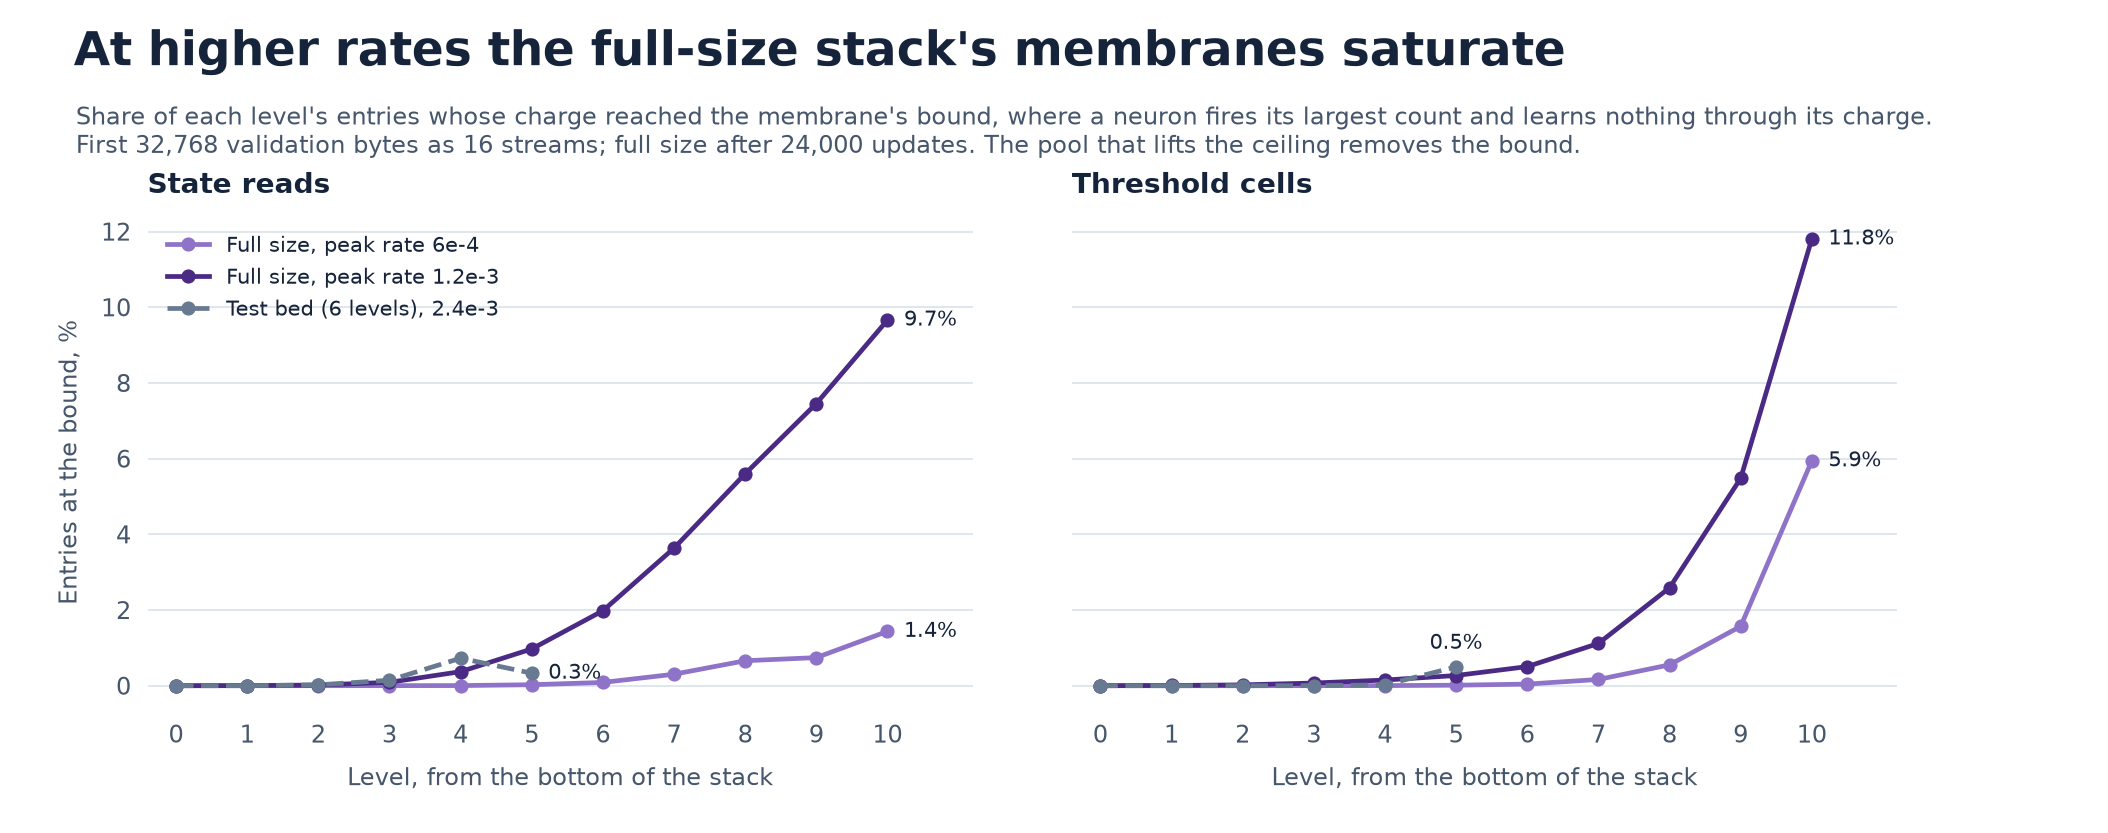
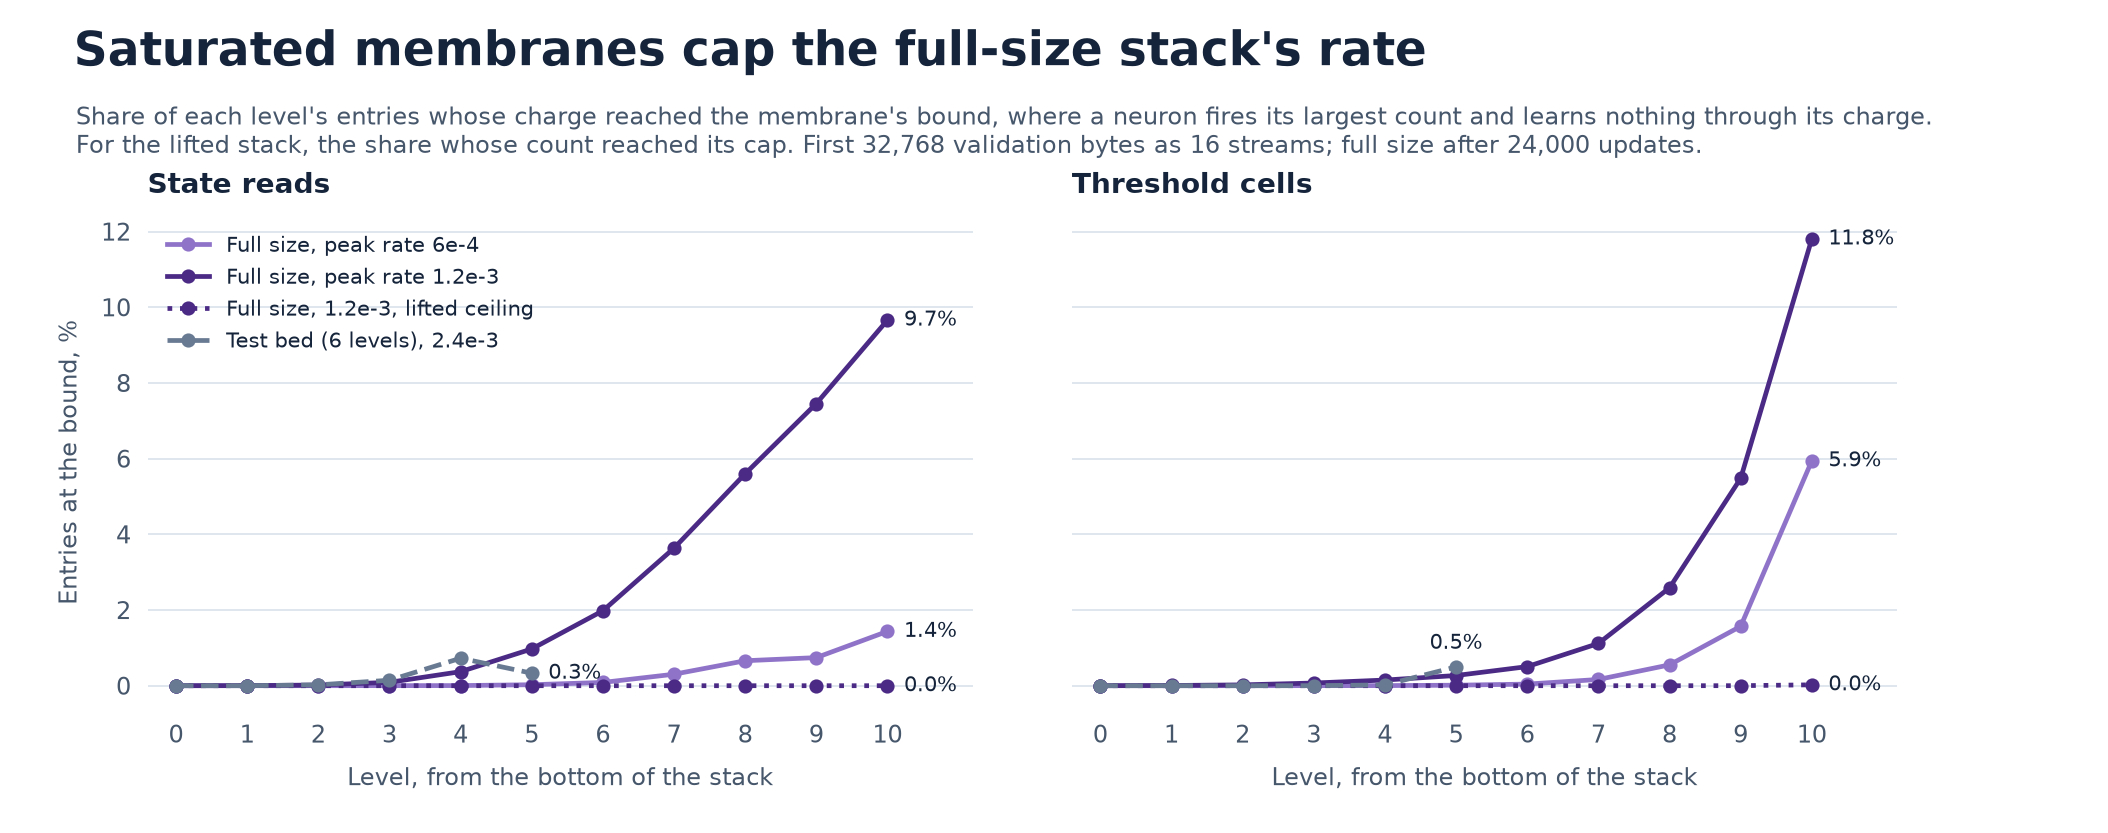
Record the lifted-ceiling pilot: lifting removes saturation and is worth 0.035 at 1.2e-3
The lifted stack scores 1.3134 at 6e-4 and 1.3126 at 1.2e-3 against the plain 1.3199 and 1.3475, at the same
energy, with no read and almost no cell at its cap. Its best is 0.0073 ahead of the plain stack's best, short of
the 0.010 the record asked, so the full-size pair trains the plain stack at 6e-4 as recorded. The gap at each
model's best rate is 0.036 with lifting, as at 3e-4: the rest is knowledge.

diff --git a/experiments/plot_saturation.py b/experiments/plot_saturation.py
@@ -19,6 +19,7 @@ LIGHT_VIOLET, DARK_VIOLET = "#8f73c9", "#4a2a85"
 RUNS = {
     "fs-st6": ("Full size, peak rate 6e-4", LIGHT_VIOLET, "-"),
     "fs-st12": ("Full size, peak rate 1.2e-3", DARK_VIOLET, "-"),
+    "fs-st12-lift": ("Full size, 1.2e-3, lifted ceiling", DARK_VIOLET, ":"),
     "bed24-lr24-s1": ("Test bed (6 levels), 2.4e-3", GRAY, "--"),
 }
 
@@ -33,11 +34,11 @@ def series(record, run, kind):
 def figure(record, output):
     fig, axes = plt.subplots(1, 2, figsize=(12.4, 4.9), sharey=True)
     fig.subplots_adjust(left=0.07, right=0.9, bottom=0.15, top=0.74, wspace=0.12)
-    fig.text(0.035, 0.965, "At higher rates the full-size stack's membranes saturate", size=20, weight="bold",
+    fig.text(0.035, 0.965, "Saturated membranes cap the full-size stack's rate", size=20, weight="bold",
              color=TEXT, va="top")
     fig.text(0.036, 0.875, "Share of each level's entries whose charge reached the membrane's bound, where a neuron "
-             "fires its largest count and learns nothing through its charge.\nFirst 32,768 validation bytes as 16 "
-             "streams; full size after 24,000 updates. The pool that lifts the ceiling removes the bound.",
+             "fires its largest count and learns nothing through its charge.\nFor the lifted stack, the share whose "
+             "count reached its cap. First 32,768 validation bytes as 16 streams; full size after 24,000 updates.",
              size=10, color=MUTED, va="top")
     for ax, (kind, title) in zip(axes, (("reads", "State reads"), ("cells", "Threshold cells"))):
         style(ax, grid_axis="y")

diff --git a/docs/SCALING_LAW.md b/docs/SCALING_LAW.md
@@ -95,15 +95,27 @@ At each model's best rate the gap is 0.044, wider than at 3e-4. The Transformer 
 stack does (0.029 against 0.022). On new contexts the two gain alike (the stack 0.029, the Transformer 0.028); the
 Transformer's extra gain is on near copies. The stack is best at a lower rate, and at the higher one its membranes saturate:
 
-![At higher rates the full-size stack's membranes saturate](../results/figures/event_lm_membrane_saturation.png)
+![Saturated membranes cap the full-size stack's rate](../results/figures/event_lm_membrane_saturation.png)
 
 At 1.2e-3, 2.7% of the reads' entries and 2.0% of the cells' sit at the membrane's bound, up to 9.7% and 11.8% at the
 top level. A neuron there fires its largest count whatever more it hears, and learns nothing through its charge. The
 test bed barely saturates even at 2.4e-3, which is why it never showed this (`membrane_saturation.json`,
 `experiments/membrane_saturation.py`). v15's pool that lifts the ceiling divides the charge before the bound. In a
 continued run at 1e-3 it was 0.019 ahead, and no release used it, because all of them trained at 3e-4, where nothing
-saturates. A full-size pilot of the lifted stack at 6e-4 and 1.2e-3 decides the form of the pair's stack arm
-(`full_size_lifted_ceiling_pilot.json`).
+saturates. A full-size pilot of the lifted stack (`full_size_lifted_ceiling_pilot.json`):
+
+| 2M validation bytes as streams | 6e-4 | 1.2e-3 |
+|---|---:|---:|
+| Plain stack | 1.3199 | 1.3475 |
+| Lifted stack | 1.3134 | **1.3126** |
+| Transformer | 1.2837 | 1.2762 |
+
+Lifting removes the saturation entirely, at the same energy (about 308,000 pulses a byte in training): no read and
+almost no cell reaches its cap. At 1.2e-3 it is worth 0.035, and the stack is level across 6e-4 and 1.2e-3 instead of
+breaking at the higher rate. At each model's best rate the lifted stack is 0.036 behind the Transformer, as the plain
+stack was at 3e-4. Lifting removes the widening, and the gap that remains is the stack's knowledge. Its best arm was
+0.0073 ahead of the plain stack's best, short of the 0.010 that the record asked, so the full-size pair trains the
+plain stack at 6e-4 as recorded.
 
 ## Still running
 
@@ -116,6 +128,5 @@ saturates. A full-size pilot of the lifted stack at 6e-4 and 1.2e-3 decides the 
 | `randomness_at_best_rate.json` | Quantal release and stochastic firing at the best rate, 1.2e-3; a third seed on the laptop |
 | `gated_cells_with_data.json` | Gated and self-gated cells at 6,000 and 24,000 updates at the best rate, a screen on the laptop |
 | `noisy_thresholds_with_data.json` | Noisy thresholds at 6,000 and 24,000 updates at the best rate, a screen on the laptop |
-| `full_size_lifted_ceiling_pilot.json` | The full-size stack with the pool that lifts the ceiling, at 6e-4 and 1.2e-3; it decides the pair's stack arm |
 | `full_size_best_rate_pair.json` | The best stack and its Transformer at full size, each at its best full-size rate; queued by the pilot's rule the night the pilot ends |
 | `full_size_word_heads.json` | Word heads at full size |
